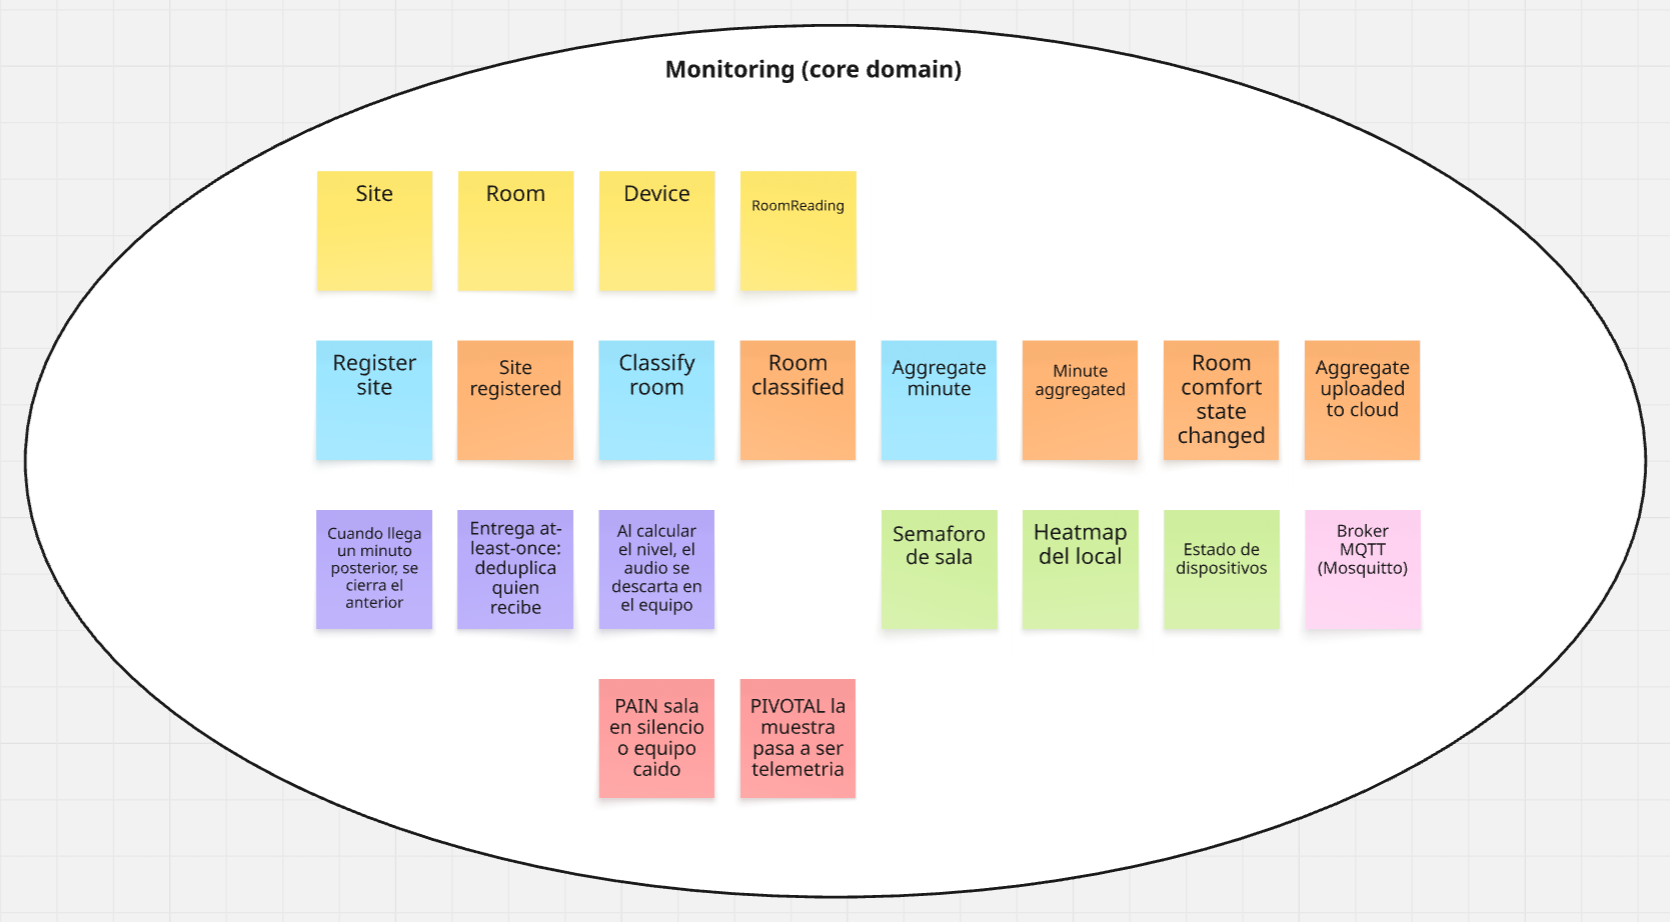
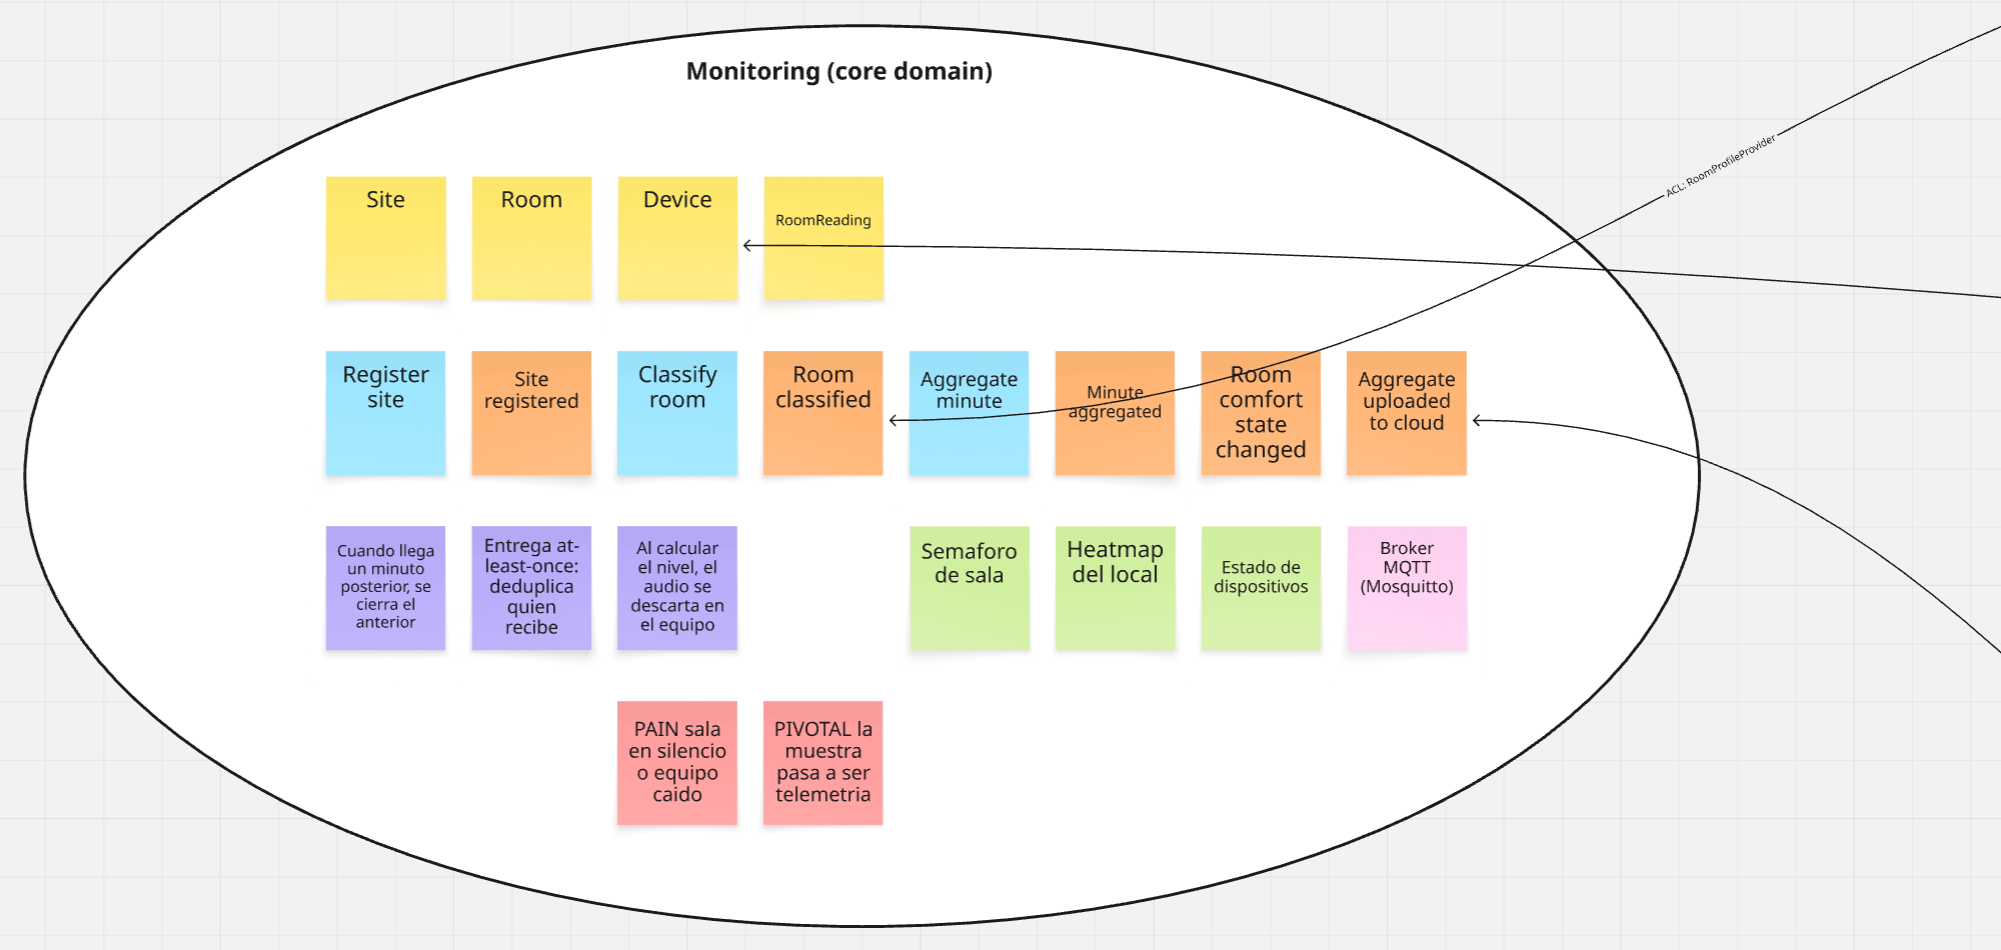
fix(chapter-4): conectar los bounded contexts de tarjeta a tarjeta
Las lineas entre contextos salian de los globos y no de las tarjetas. Ahora
cada relacion une las dos tarjetas que intercambian el mensaje, como en los
tableros de referencia.

Los extremos se eligieron por lo que cruza la frontera y coinciden con el
context map de 4.1.2: Alerting e Insights apuntan a Monitoring con sus dos
capas anticorrupcion, e IAM apunta a los tres contextos de negocio.

Se reordenaron los globos para que las cinco lineas no se crucen y se
recapturaron las cinco figuras del paso 9 con el modelo ya modificado.

Se revirtio 4.1.2 a su diagrama original y se retiro la referencia al marco
academico que quedaba en las conclusiones.

diff --git a/README.md b/README.md
@@ -1374,11 +1374,11 @@ El proceso de identificación empezó revisando el modelo completo del apartado 
 
 **1. Start-with-Value**
 
-Se empezó clasificando por aporte al negocio. Monitoring es core porque sin medición objetiva no hay producto que vender, e Insights también lo es porque es lo que separa la solución de un termómetro con memoria. Alerting es supporting, ya que resulta necesario para que la medición sirva de algo pero no es donde reside la ventaja competitiva. IAM es un subdominio genérico, con el problema ya resuelto en la industria. Esa clasificación es la que rotula cada frontera en la Figura 21.
+Se empezó clasificando por aporte al negocio. Monitoring es core porque sin medición objetiva no hay producto que vender, e Insights también lo es porque es lo que separa la solución de un termómetro con memoria. Alerting es supporting, ya que resulta necesario para que la medición sirva de algo pero no es donde reside la ventaja competitiva. IAM es un subdominio genérico, con el problema ya resuelto en la industria. Esa clasificación es la que rotula cada frontera en la Figura 28.
 
 **2. Start-with-Simple**
 
-Para no perderse en la complejidad se descompuso el recorrido en seis pasos secuenciales, que son medir, agregar, comparar con la política, avisar, responder y explicar, y se preguntó a quién corresponde cada uno. Medir y agregar pertenecen a quien posee la estructura del local; comparar y avisar dependen de una política que alguien configura por separado; explicar necesita historia acumulada y no el instante. Son tres responsabilidades que no cambian por las mismas razones, y en las Figuras 11 y 12 ya aparecen separadas por áreas.
+Para no perderse en la complejidad se descompuso el recorrido en seis pasos secuenciales, que son medir, agregar, comparar con la política, avisar, responder y explicar, y se preguntó a quién corresponde cada uno. Medir y agregar pertenecen a quien posee la estructura del local; comparar y avisar dependen de una política que alguien configura por separado; explicar necesita historia acumulada y no el instante. Son tres responsabilidades que no cambian por las mismas razones, y en las Figuras 11, 12 y 13 ya aparecen separadas por áreas.
 
 **3. Look-for-Pivotal-Events**
 
@@ -1389,7 +1389,7 @@ Los pivotal events marcados en el paso 3 se leyeron como fronteras, citando en c
 - Threshold exceeded es la frontera entre Alerting y Monitoring, ya que la medición pasa a ser política incumplida.
 - Trend analyzed es la frontera entre Monitoring e Insights: la serie deja de ser dato y pasa a ser conclusión.
 
-Los cuatro quedan marcados sobre la línea temporal en la Figura 13. Para decidir si cada uno separa de verdad dos contextos, se comprobó cómo se llama el dato a cada lado de la frontera.
+Los cuatro quedan marcados sobre la línea temporal en la Figura 14. Para decidir si cada uno separa de verdad dos contextos, se comprobó cómo se llama el dato a cada lado de la frontera.
 
 <p align="center"><img src="assets/event-storming/design-level/ccd-2-pivotal-events.png" alt="Pivotal events leidos como frontera" width="1000"></p>
 
@@ -1411,7 +1411,7 @@ El segundo aisló los contextos centrales y fue el que más discusión costó, p
 
 <p align="center"><em>Figura 36.</em> Segundo agrupamiento: Monitoring e Insights separados pese a compartir el vocabulario de las lecturas.</p>
 
-El resultado de ambas rondas es el que encierra cada frontera en la Figura 21.
+El resultado de ambas rondas es el que encierra cada frontera en la Figura 28.
 
 La consolidación final deja cuatro bounded contexts, que son Monitoring, Insights, Alerting e IAM, y coinciden exactamente con los que desarrolla el nivel táctico en el apartado 4.2.
 
@@ -1530,15 +1530,39 @@ Cada contexto candidato se diseña con su propio canvas siguiendo un proceso ite
 <a id="412-context-mapping"></a>
 ### 4.1.2. Context Mapping.
 
-El context map recoge las relaciones estructurales entre los cuatro bounded contexts y con los servicios externos. Cada línea une dos contextos e indica el patrón de Domain-Driven Design que la gobierna y quién manda en el contrato, de modo que se lee de un vistazo qué contexto depende de cuál y cómo se protege de él. El mapa se construyó revisando el reparto del apartado anterior y poniendo a prueba varias alternativas antes de fijarlo.
+El context map recoge las relaciones estructurales entre los cuatro bounded contexts y con el servicio externo, indicando para cada una el patrón de Domain-Driven Design que la gobierna y quién manda en el contrato.
 
-<p align="center"><img src="assets/context-map/context-map.png" alt="Context map de la solucion" width="1000"></p>
+```mermaid
+flowchart TB
+    subgraph nube["cloud-api"]
+        mon["monitoring<br/>[core]<br/>Upstream"]
+        ins["insights<br/>[core]<br/>Downstream"]
+        ale["alerting<br/>[supporting]<br/>Downstream"]
+        iam["iam<br/>[generic]"]
+        sha["shared<br/>Shared Kernel"]
+    end
+    ow(["OpenWeather<br/>[servicio externo]"])
+    edge["Edge API<br/>[Flask]"]
+
+    ins -->|"ACL: ReadingSeriesProvider"| mon
+    ale -->|"ACL: RoomProfileProvider"| mon
+    ins -->|"ACL: OutdoorWeatherProvider"| ow
+    edge -->|"Customer/Supplier"| mon
+    edge -->|"Customer/Supplier"| ale
+    iam -.->|"Conformist: autorización"| mon
+    iam -.->|"Conformist: autorización"| ins
+    iam -.->|"Conformist: autorización"| ale
+    mon --- sha
+    ins --- sha
+    ale --- sha
+    iam --- sha
+```
 
 <p align="center"><em>Figura 44.</em> Context map de la solución, con el patrón que gobierna cada relación.</p>
 
-**Anti-corruption Layer.** Es el patrón que protege las tres dependencias salientes. Insights y Alerting no conocen el modelo de Monitoring: declaran puertos con su propio vocabulario, de modo que `ReadingSeriesProvider` pide una serie de `ReadingPoint` y `RoomProfileProvider` pide una lista de `RoomProfile`, y un único componente traduce. La sala de Monitoring tiene aforo, planta, superficie y última lectura; en Alerting una sala es un código y un tipo, y nada más. Esa reducción es la que impide que un cambio en el modelo del proveedor se propague a sus consumidores. El mismo patrón aísla a Insights de OpenWeather: `OutdoorWeatherProvider` expresa la necesidad de clima exterior, y el adaptador absorbe el formato del proveedor.
+**Anti-corruption Layer.** Es el patrón que protege las tres dependencias salientes. Insights y Alerting no conocen el modelo de Monitoring: declaran puertos con su propio vocabulario —`ReadingSeriesProvider` pide una serie de `ReadingPoint`, `RoomProfileProvider` pide una lista de `RoomProfile`— y un único componente traduce. La sala de Monitoring tiene aforo, planta, superficie y última lectura; en Alerting una sala es un código y un tipo, y nada más. Esa reducción es la que impide que un cambio en el modelo del proveedor se propague a sus consumidores. El mismo patrón aísla a Insights de OpenWeather: `OutdoorWeatherProvider` expresa la necesidad de clima exterior, y el adaptador absorbe el formato del proveedor.
 
-**Customer/Supplier.** La relación entre el Edge y el cloud es de cliente y proveedor con contrato negociado: el Edge consume los umbrales que publica Alerting y entrega telemetría a Monitoring en un formato acordado. Monitoring es el *upstream* de toda la solución, el que define el contrato, y tanto el Edge como los dos contextos analíticos son *downstream*.
+**Customer/Supplier.** La relación entre el Edge y el cloud es de cliente y proveedor con contrato negociado: el Edge consume los umbrales que publica Alerting y entrega telemetría a Monitoring en un formato acordado. Monitoring es el *upstream* de toda la solución —quien define el contrato— y tanto el Edge como los dos contextos analíticos son *downstream*.
 
 **Conformist.** Los contextos de negocio no negocian con IAM: aceptan su modelo de roles y alcances tal como es, aplicado por la cadena de filtros de seguridad antes de que la petición llegue a un controlador. Ninguno implementa autorización propia ni traduce el modelo de identidad, y por eso la relación es de conformidad y no de anti-corrupción: aquí no hay nada de lo que protegerse, porque IAM es un subdominio genérico cuyo modelo no aporta ambigüedad al dominio.
 
@@ -1546,17 +1570,13 @@ El context map recoge las relaciones estructurales entre los cuatro bounded cont
 
 **Alternativas consideradas y por qué se descartaron.** El reparto actual no fue el primero: se llegó a él descartando otros tres, y conviene dejar constancia de cada uno porque las razones siguen vigentes.
 
-*¿Y si Monitoring e Insights fueran un solo contexto?* Ambos trabajan sobre las mismas lecturas, de modo que unirlos evitaría la capa anticorrupción y una traducción. Se descartó porque responden a preguntas con horizontes distintos, una es el estado de ahora y la otra el patrón de tres semanas, y esa diferencia arrastra todo lo demás: Monitoring optimiza la escritura continua y la consulta del último minuto, mientras que Insights recorre series largas y tolera latencia. Unirlos obligaría a un solo modelo a servir a dos cargas opuestas, y el producto vende las dos cosas por separado.
+*¿Y si Monitoring e Insights fueran un solo contexto?* Ambos trabajan sobre las mismas lecturas, de modo que unirlos evitaría la capa anticorrupción y una traducción. Se descartó porque responden a preguntas con horizontes distintos —una es el estado de ahora, la otra el patrón de tres semanas— y esa diferencia arrastra todo lo demás: Monitoring optimiza la escritura continua y la consulta del último minuto, mientras que Insights recorre series largas y tolera latencia. Unirlos obligaría a un solo modelo a servir a dos cargas opuestas, y el producto vende las dos cosas por separado.
 
-*¿Y si `Threshold` viviera en Monitoring?* Fue así al principio. Se movió a Alerting porque un umbral existe únicamente para disparar una alerta: sin ese contexto no significa nada, y tenerlo junto a la telemetría mezclaba la medición con la política sobre la medición. El cambio se hizo cuando todavía era barato, porque nada lo usaba, ni caso de uso ni endpoint; con la pantalla de administración ya construida encima habría costado mucho más.
+*¿Y si `Threshold` viviera en Monitoring?* Fue así al principio. Se movió a Alerting porque un umbral existe únicamente para disparar una alerta: sin ese contexto no significa nada, y tenerlo junto a la telemetría mezclaba la medición con la política sobre la medición. El cambio se hizo cuando todavía era barato —nada lo usaba, ni caso de uso ni endpoint—; con la pantalla de administración ya construida encima habría costado mucho más.
 
 *¿Y si se duplicara el tipo de sala en Alerting para romper la dependencia?* Eliminaría la única dependencia saliente del contexto y lo dejaría autónomo. Se descartó porque obligaría a mantener sincronizadas dos copias de la misma clasificación, y una discrepancia entre ellas se manifestaría como umbrales que no se aplican, un fallo silencioso y difícil de diagnosticar. Se prefirió pagar la dependencia y aislarla con la capa anticorrupción, que es reducida: un puerto con un solo método.
 
-*¿Y si se añadieran más contextos?* Cuatro es el techo que el equipo consideró sensato. Cada bounded context obliga a repetir por completo el diseño táctico, con sus cuatro capas, sus tres diagramas y su esquema propio, de modo que dividir más aumenta el coste de documentación y de mantenimiento sin que el dominio lo pida. Un quinto contexto tendría que justificarse por una frontera de negocio real, no por conveniencia técnica.
-
-*¿Y si se descompusiera el cálculo de indicadores y una parte viviera en otro contexto?* El cálculo acústico tiene dos mitades: la que reduce la muestra de audio a un nivel sonoro, que corre en el dispositivo, y la que agrega esos niveles por minuto, que corre en el Edge. Se evaluó llevar la segunda al cloud para simplificar el firmware. Se descartó porque obligaría a transmitir un valor por segundo en lugar de uno por minuto, multiplicando por sesenta el tráfico de cada sala, y porque la agregación necesita saber cuándo se cierra el minuto, que es justo la información que solo tiene quien recibe las muestras.
-
-*¿Y si la consulta de series se sacara de Monitoring y formara un contexto propio de lectura?* Los tres contextos que consultan series lo hacen con necesidades distintas: el panel quiere el último minuto, el diagnóstico quiere un rango corto y la analítica recorre semanas. Un contexto de consulta separado evitaría que Monitoring cargue con las tres. Se descartó porque ese contexto no tendría reglas propias, solo consultas, y un bounded context sin lenguaje propio es una capa de acceso a datos disfrazada. La separación real ya existe y es la de Insights, que sí aporta vocabulario propio.
+*¿Y si se añadieran más contextos?* Cuatro es el techo que el equipo consideró sensato. Cada bounded context obliga a repetir por completo el diseño táctico —cuatro capas, tres diagramas y su esquema propio—, de modo que dividir más aumenta el coste de documentación y de mantenimiento sin que el dominio lo pida. Un quinto contexto tendría que justificarse por una frontera de negocio real, no por conveniencia técnica.
 
 **La frontera es física, no solo conceptual.** Cada contexto tiene su propio esquema de PostgreSQL y su propia migración de Flyway con historial independiente, de modo que todos empiezan por `V1` y evolucionan sin coordinarse. No existe ninguna clave foránea que cruce de un esquema a otro: los contextos se referencian por identificador y cada uno responde de su integridad. La contrapartida queda anotada como deuda: borrar un tipo de sala dejaría umbrales huérfanos en Alerting, y es el caso de uso de borrado el que deberá cubrirlo.
 
@@ -3078,7 +3098,7 @@ Al cierre de esta primera entrega, el equipo recoge las conclusiones alcanzadas 
 
 **Sobre el diseño de la solución.** Aplicar Domain-Driven Design obligó a decidir dónde pasan las fronteras del sistema antes de escribir código, y esa decisión resultó ser la más determinante del proyecto. Separar la medición del estado actual de la analítica de largo plazo, y ambas de la política de umbrales, permitió que cada contexto evolucione sin arrastrar a los demás. La frontera se hizo física —un esquema de base de datos y una migración por bounded context, sin claves foráneas entre ellos— porque una frontera que solo existe en la documentación deja de existir en cuanto aprieta el plazo.
 
-**Sobre el reparto entre dispositivo, borde y nube.** La arquitectura distribuida no se adoptó por seguir el enunciado del curso, sino porque el problema la impone: el micrófono muestrea a dieciséis mil muestras por segundo, y transmitir eso sería inviable en ancho de banda y, sobre todo, equivaldría a grabar conversaciones de personas que no han dado su consentimiento. Calcular los indicadores en el dispositivo y descartar el audio convierte una restricción técnica en una garantía de privacidad que el producto puede sostener ante el cliente.
+**Sobre el reparto entre dispositivo, borde y nube.** La arquitectura distribuida la impone el problema: el micrófono muestrea a dieciséis mil muestras por segundo, y transmitir eso sería inviable en ancho de banda y, sobre todo, equivaldría a grabar conversaciones de personas que no han dado su consentimiento. Calcular los indicadores en el dispositivo y descartar el audio convierte una restricción técnica en una garantía de privacidad que el producto puede sostener ante el cliente.
 
 **Sobre el proceso de trabajo.** Documentar el diseño a partir de la implementación ya existente, en lugar de al revés, evitó que el informe y el código contaran cosas distintas: los diagramas de clases y de base de datos se transcriben de las clases del dominio y de las migraciones, de modo que cualquier integrante puede verificar uno contra el otro. La revisión sistemática de cada sección contra el enunciado y las rúbricas reveló defectos que una lectura corriente no detecta, como enlaces del índice que no resolvían o artefactos que parecían completos sin estarlo.
 
